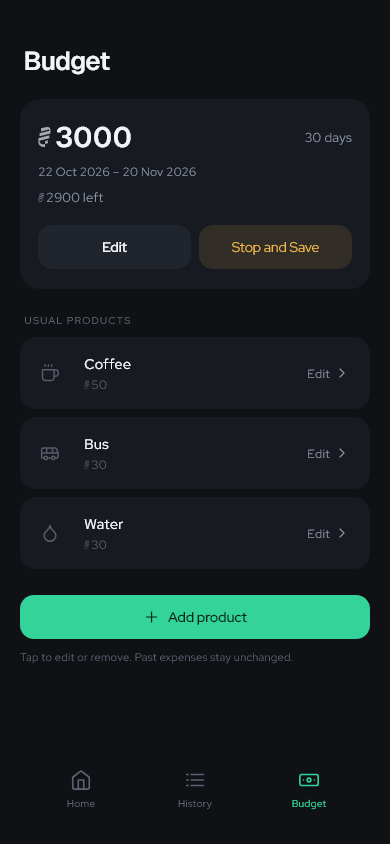
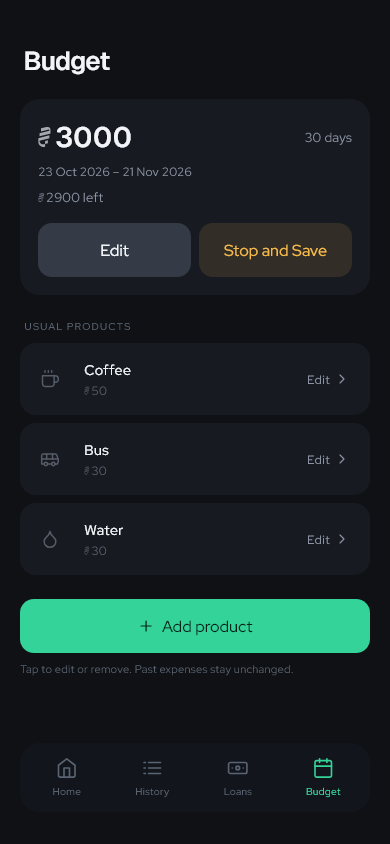
docs: update README for loans and current app design

diff --git a/README.md b/README.md
@@ -9,12 +9,13 @@
 
 **A coffee today. Enough for the bus tomorrow.**
 
-A small money journal for Algerian students. Give your allowance a plan, log the little things, and see what is left before the next purchase.
+A small money journal for Algerian students. Give your allowance a plan, log the little things, track money lent or borrowed, and see what is left before the next purchase.
 
 <sub>ALGERIAN DINARS / WORKS OFFLINE / NO ACCOUNT</sub>
 
 <p align="center">
   <a href="#a-day-with-waffir">A day with Waffir</a> ·
+  <a href="#money-between-friends">Loans</a> ·
   <a href="#before-your-first-lecture">First budget</a> ·
   <a href="#the-maths-behind-the-day">The maths</a> ·
   <a href="#run-it-yourself">Build it</a>
@@ -27,7 +28,7 @@ A small money journal for Algerian students. Give your allowance a plan, log the
 <table>
   <tr>
     <td width="42%" align="center">
-      <img src="docs/screenshots/home.png" width="260" alt="Home shows 51.72 DA left today, daily averages, savings, and usual products">
+      <img src="docs/screenshots/home.png" width="260" alt="Home shows money left today, daily averages, savings, and a loan summary">
     </td>
     <td>
       <h3>One number before you spend.</h3>
@@ -57,11 +58,55 @@ You remember the big payment. Coffee, water, and snacks are easier to forget. Gi
 </p>
 <p align="center"><sub>Write it down. Find it later. Fix it if needed.</sub></p>
 
+## Money between friends
+
+**Books for a friend. Bus money borrowed until next week. Keep both in view.**
+
+Loans has two clear directions: **Owed to me** and **I owe**. Save the person's name, amount, loan date, and an optional due date and note. The popup shows the effect on your budget before you save.
+
+| Keep track | Settle up |
+| --- | --- |
+| Filter by All, Owed to me, I owe, or Paid. | Record part of a repayment or the full amount. |
+| Search by person or note. Overdue loans appear first. | See the unpaid balance and payment history. |
+| Edit details if you made a mistake. | Correct payments or delete them after confirmation. |
+
+<p align="center">
+  <img src="docs/screenshots/loans.png" width="265" alt="Loans overview with totals, search, filters, and due status">
+  <img src="docs/screenshots/loan-details.png" width="265" alt="Loan details with remaining amount, repayment action, dates, note, and reminders">
+</p>
+
+### Cash in hand, money expected back
+
+Loan transfers change cash. They do **not** count as expenses or savings.
+
+- **You lend:** cash falls at once. If repayment is due within the budget period, the planned daily limit can include that expected money until the due date ends. With no due date, a due date after the budget ends, or an overdue balance, the unpaid amount reduces the limit.
+- **You borrow:** cash rises. Money owed within the budget period, or without a due date, is reserved for repayment. Borrowing due after the period can increase the spending limit, while the debt remains visible.
+- **You record a repayment:** cash and limits update. Payments cannot exceed the amount still owed. A transfer above available cash needs confirmation.
+
+Home separates cash, expected repayments, and repayment reserves. If Left today depends on money that has not returned, it shows a warning. Tomorrow's figures also account for loans.
+
+Loans stay open when a budget closes. Each transfer has its own budget link, or **Outside a budget**. A repayment in a later budget affects that budget; old loans do not add money to a new budget automatically. Existing links and carry-over amounts stay fixed after budget corrections.
+
+### A reminder at noon
+
+Dated loans can send a phone notification at **12:00 PM local time** on the due day and once the next day if money is still owed. The alert shows the unpaid amount and direction, with no person's name. Tap it to open the loan.
+
+Reminders are on by default for dated loans and can be switched off per loan. Waffir asks for notification permission when needed. A late entry can trigger one immediate reminder. Partial payments update the amount; full repayment or deletion cancels the alerts. Android may delay scheduled alerts to save battery.
+
+<details>
+<summary><b>See the repayment popup</b></summary>
+
+<p align="center">
+  <img src="docs/screenshots/repayment.png" width="265" alt="Record a repayment with amount, date, time, budget link, and cash preview">
+</p>
+
+</details>
+
 ## Before your first lecture
 
 **Choose a period. Add your money. Save your usual purchases.**
 
-Use a week, a month, or dates that match your next payment. Both the start and end dates count. Enter the full budget in whole dinars. Products are optional and can be added later.
+Use a **7, 15, 21, or 28-day** shortcut, or choose dates that match your next payment. The duration appears directly below the date inputs. Both the start and end dates count. Enter the full budget in whole dinars. Products are optional and can be added later.
 
 <details>
 <summary><b>See the three setup screens</b></summary>
@@ -90,7 +135,7 @@ Use a week, a month, or dates that match your next payment. Both the start and e
 
 ## The maths behind the day
 
-Suppose you set **3,000 DA for 30 days**. Your original daily average is **100 DA**. If you spend **50 DA on day one**:
+With no loan transfers, suppose you set **3,000 DA for 30 days**. Your original daily average is **100 DA**. If you spend **50 DA on day one**:
 
 | Figure | Result | Meaning |
 | --- | --- | --- |
@@ -108,14 +153,14 @@ Tomorrow's limit = original daily average + saved so far
                   + original daily average − spent today
 ```
 
-Past savings or overspending affect the next day's allowance. Today's purchases reduce Left today, but do not change today's fixed limit. Negative figures stay visible. At zero or below, Home shows **Stop for today**. On the last day, future figures show **No days remaining**.
+Past savings or overspending affect the next day's allowance. Today's purchases reduce Left today, but do not change today's fixed limit. Loan entries, repayments, due-date changes, and overdue balances can change the planned limit. Negative figures stay visible. At zero or below, Home shows **Stop for today**. On the last day, future figures show **No days remaining**.
 
 <details>
 <summary><b>Small details that matter</b></summary>
 
-Waffir uses a dark theme, mint actions, and amber warnings. **Geist** stays on headings and key amounts. **Red Hat Display** is used for body text, labels, and controls. Geist Mono and Rubik remain bundled, with all font licenses included.
+Waffir uses a dark theme, mint primary actions, gray Edit and secondary buttons, and amber warnings. Delete actions use muted red with red text; confirmation buttons remain red. **Geist** stays on headings and key amounts. **Red Hat Display** is used for body text, labels, and controls. Geist Mono and Rubik remain bundled, with all font licenses included.
 
-The supplied [dinar symbol](assets/dzd.svg) appears to the left of amounts with reduced opacity. Product icons are also muted. Fields have separate labels and no visible outlines.
+The supplied [dinar symbol](assets/dzd.svg) appears to the left of amounts with reduced opacity. Product icons are also muted. Fields have separate labels, placeholders, and no visible outlines. Standard actions share a 54 px minimum height, 16 px text, and medium weight. Compact actions use a 44 px minimum height. Back controls share a dark rounded surface. The inset tab bar is darker than the section cards; content is visible through its rounded top corners and hidden below it. Related controls use tighter spacing than separate sections.
 
 | Icon | Example use |
 | --- | --- |
@@ -132,17 +177,19 @@ These are examples. You choose the label and icon. Changing a usual product's pr
 
 ## Your records, on your device
 
-- Budgets, products, and logs are stored locally using SharedPreferences. There is no cloud sync or export feature.
+- Budgets, products, expense logs, loans, and repayments are stored locally using SharedPreferences. There is no cloud sync or export feature.
 - Clearing app data or uninstalling the app can remove your records.
 - Saved budgets remain editable, but cannot receive new expenses.
 - Money carried into a new budget stays fixed if you later correct the old budget.
 - Budget date edits cannot exclude existing expenses. Correct those expenses first.
-- Existing budget data is migrated while retaining the old storage value for recovery.
+- Legacy budget data is migrated while retaining the original legacy storage key for recovery.
 
 ## Run it yourself
 
 <details>
 <summary><b>Flutter setup, checks, APK build, and source map</b></summary>
+
+Current release: **0.4.0, build 11**.
 
 This is a Flutter project. Install Flutter and the Android SDK, then run:
 
@@ -165,29 +212,30 @@ Build smaller APKs for each processor type:
 flutter build apk --release --split-per-abi --split-debug-info=build/symbols/android
 ```
 
-The ARM64 output is `build/app/outputs/flutter-apk/app-arm64-v8a-release.apk`. Build outputs are not stored in Git. Keep the debug symbol files with the release. The current Android build uses the debug signing key; set a production key before store distribution.
+The generated ARM64 output is `build/app/outputs/flutter-apk/app-arm64-v8a-release.apk`. Shared APKs use `waffir-release-<version>+<build>.apk`, such as `waffir-release-0.4.0+11.apk`. Build outputs are not stored in Git. Keep the debug symbol files with the release. The current Android build uses the debug signing key; set a production key before store distribution.
 
 The code uses a layer-first structure:
 
 ```text
 lib/
-  main.dart                 # Starts the app and supplies storage
+  main.dart                 # Supplies storage and phone notifications
   domain/
-    models/                 # Budget records and daily figures
-    rules/                  # Expense validation
+    models/                 # Budgets, expenses, loans, and daily figures
+    rules/                  # Expense rules and loan reminder planning
     repositories/           # Typed storage contract
   data/
     serialization/          # JSON schema and legacy migration
     storage/                # SharedPreferences implementation
+    notifications/          # Phone permissions, scheduling, and loan links
   presentation/
     app.dart                # App theme and root navigation
     controllers/            # Budget lifecycle and save state
-    screens/                # Home, History, Budget, and editors
-    widgets/                # Expense entry
-    design/                 # Typography, currency, and tap behavior
+    screens/                # Home, History, Loans, Budget, and editors
+    widgets/                # Shared forms, cards, lists, popups, and navigation
+    design/                 # Colors, spacing, button styles, and formatting
 ```
 
-The domain has no Flutter or storage-plugin dependency. Presentation and data depend on the domain. `main.dart` connects them. Tests follow the same layers; `test/architecture_test.dart` checks the dependency direction.
+The domain has no Flutter or storage-plugin dependency. Presentation and data depend on the domain. `main.dart` connects them. Tests follow the same layers; `test/architecture_test.dart` checks the dependency direction and prevents shared widgets from importing screens.
 
 </details>
 
